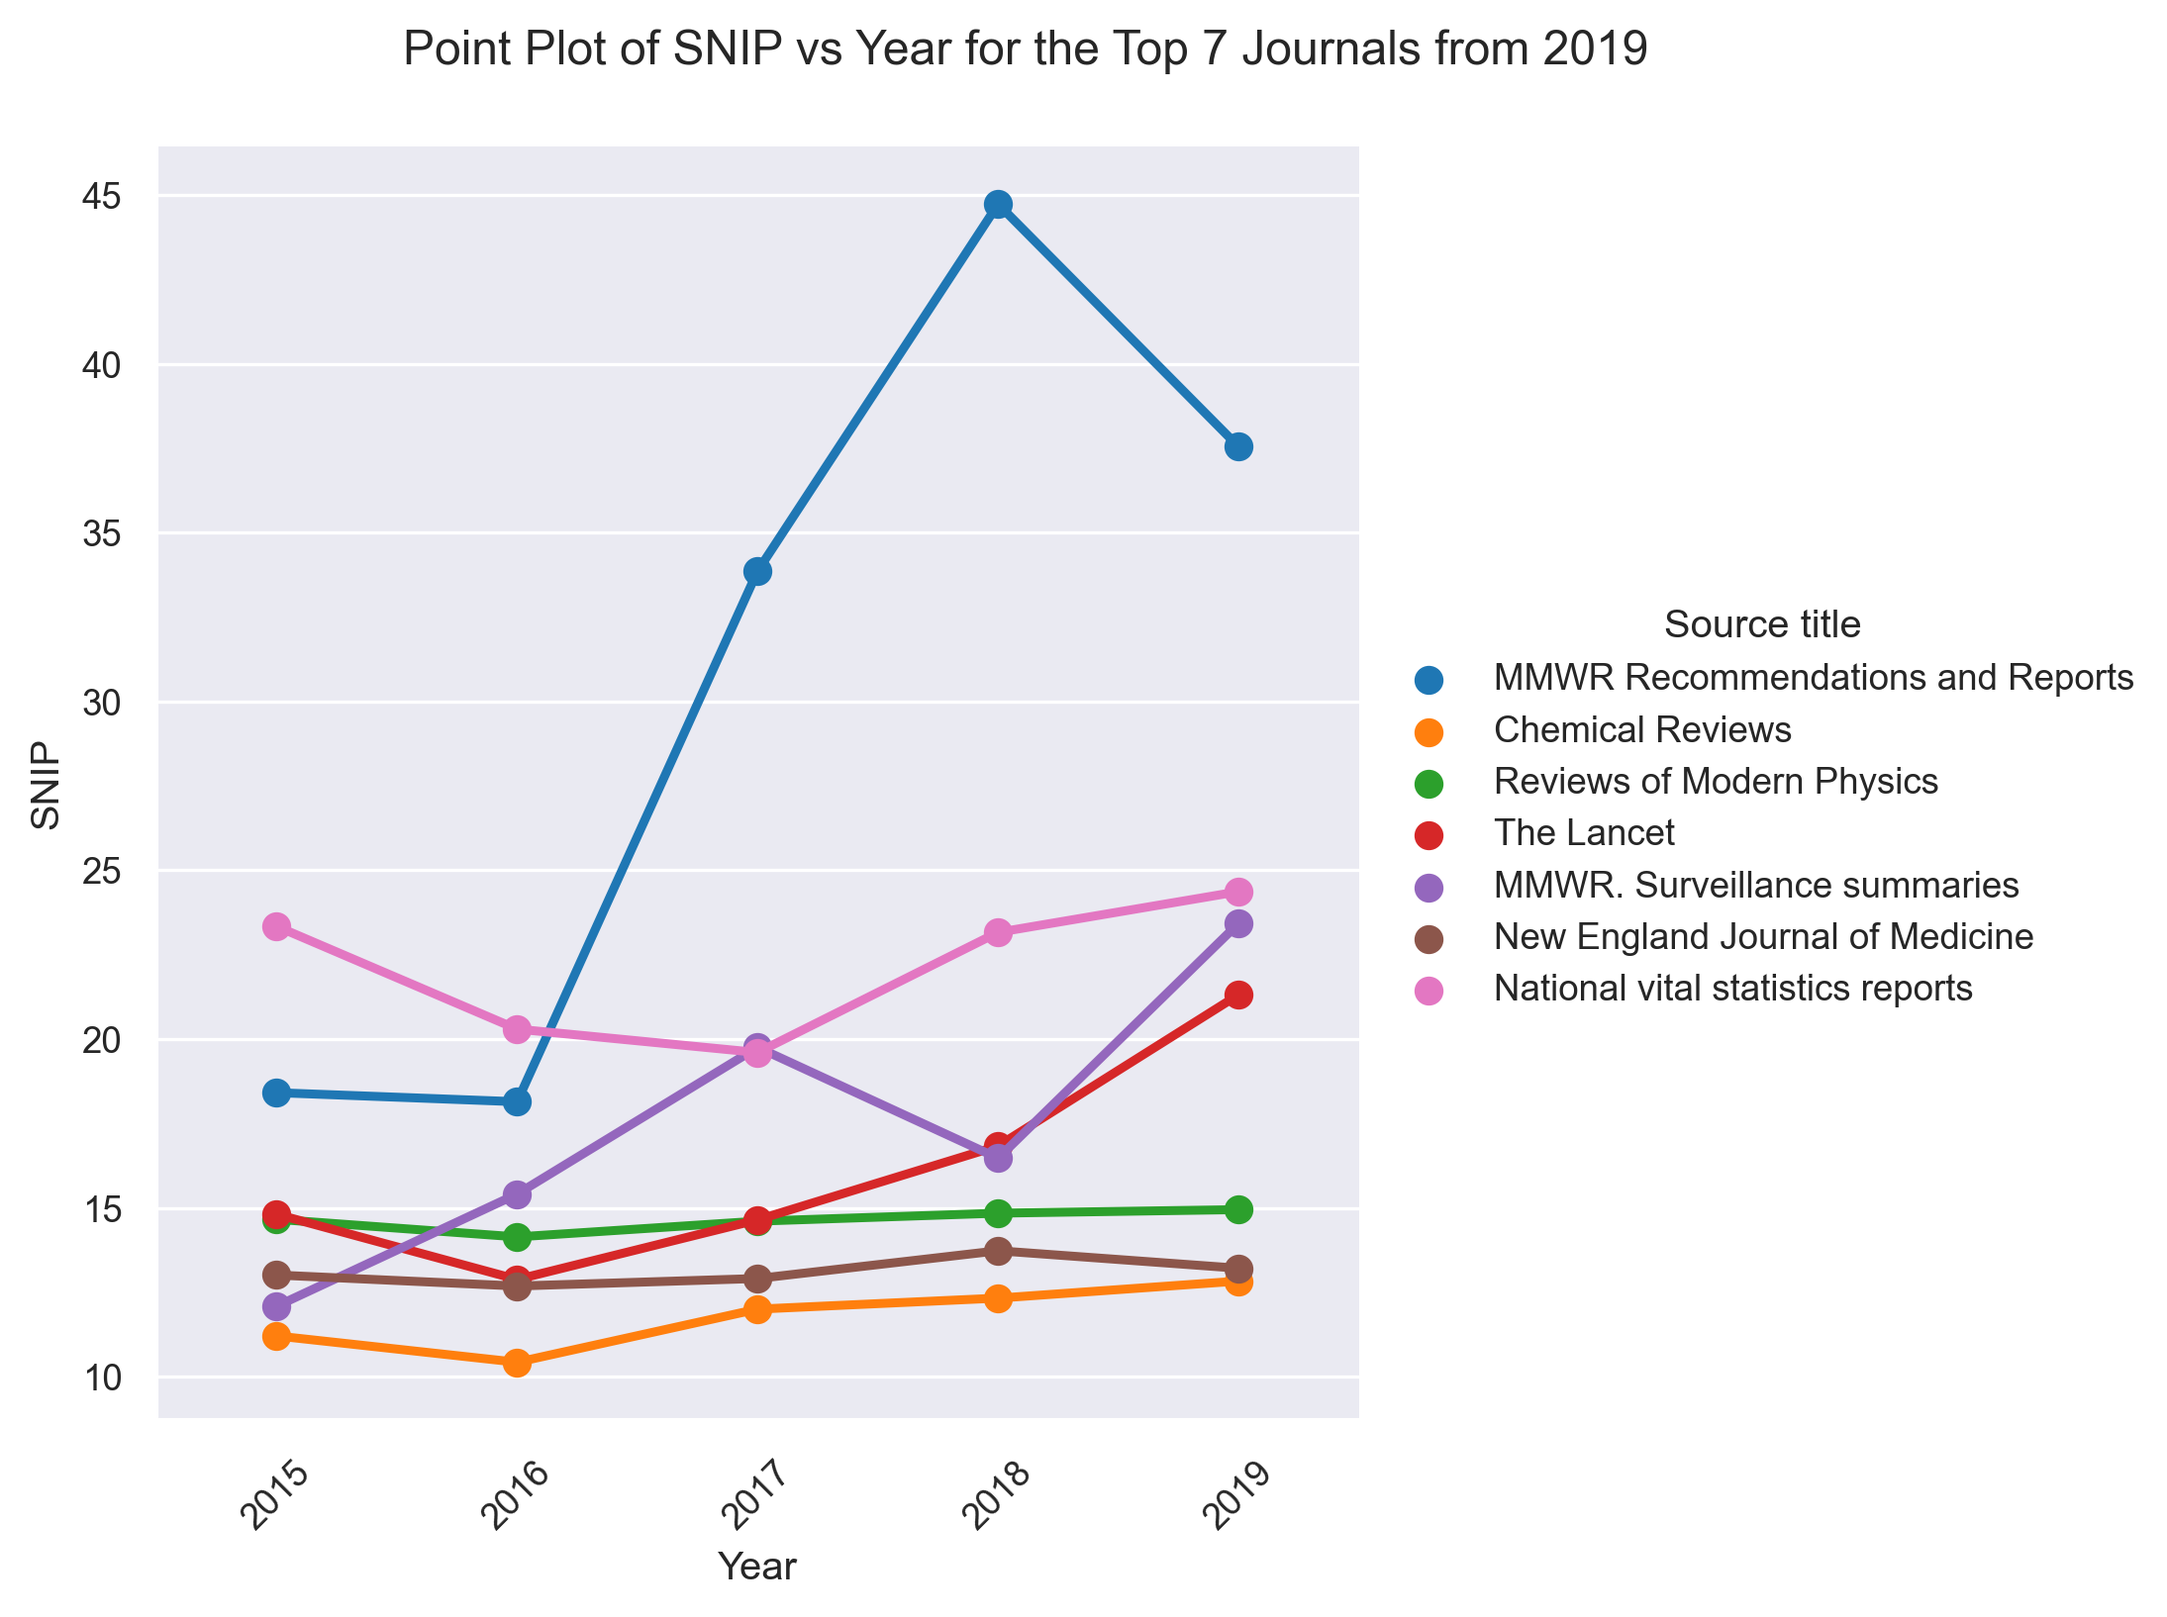
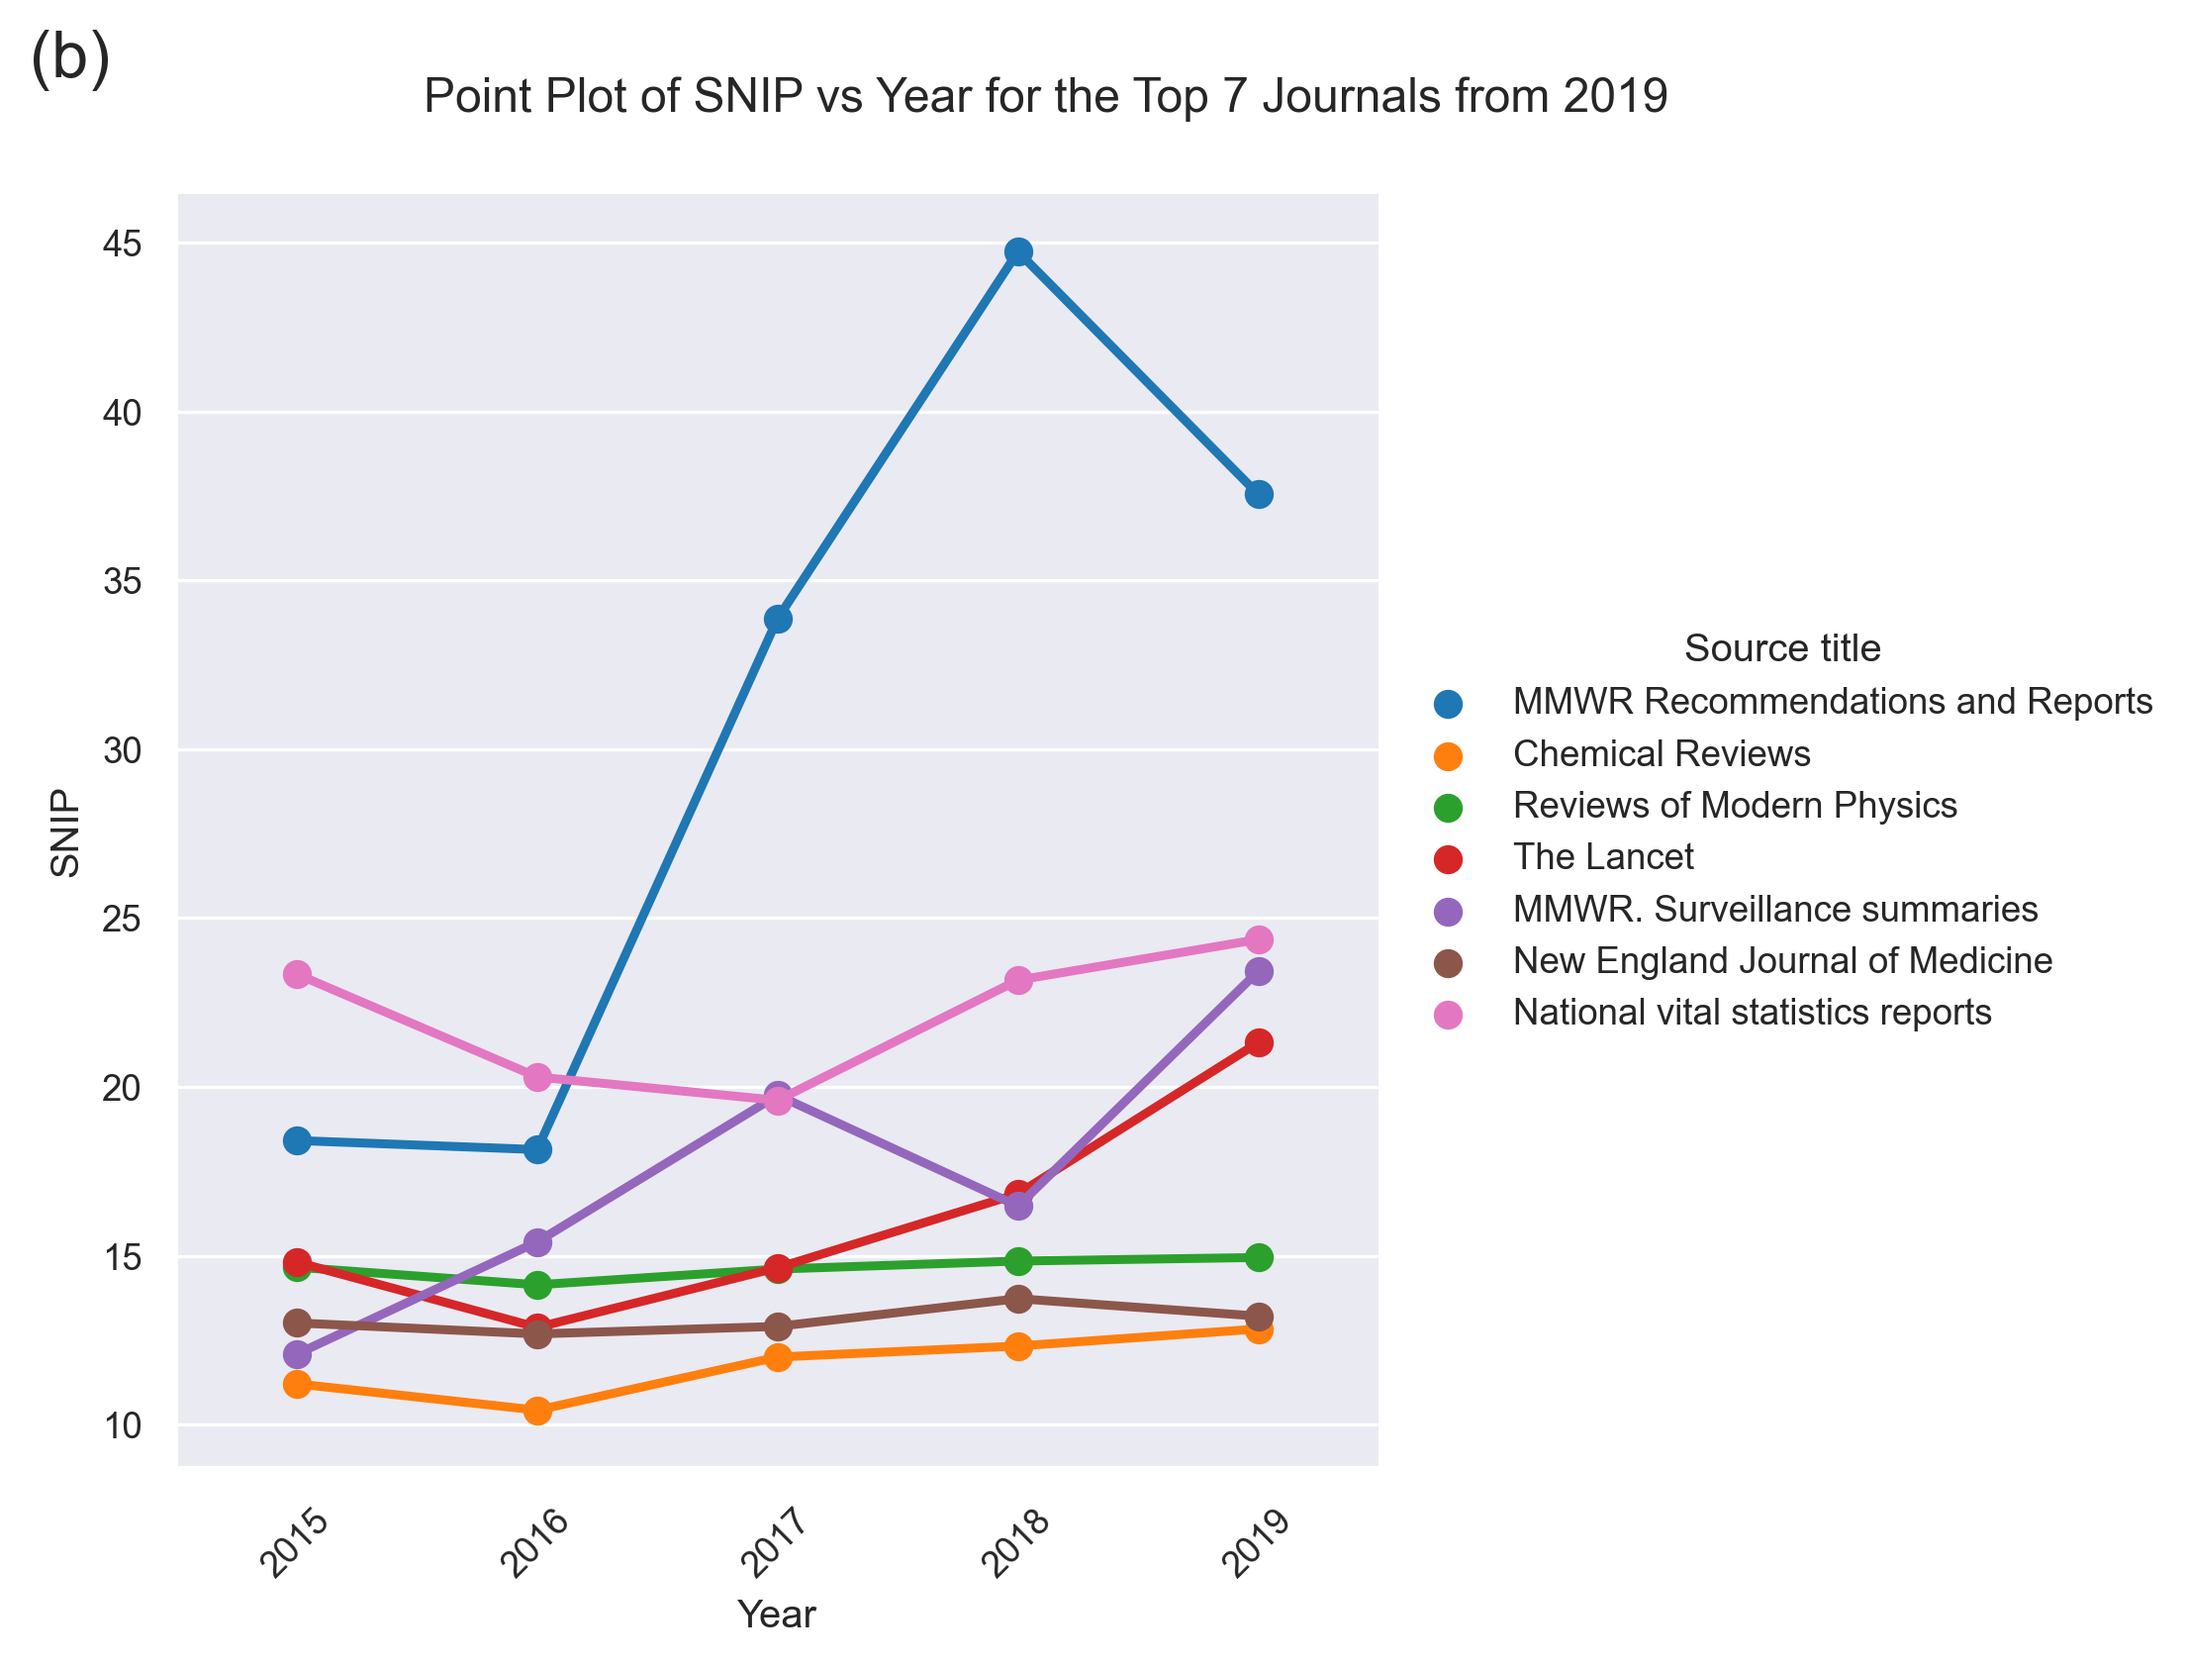
Fixed slide titles

diff --git a/Journal Impact Factor/Kaggle_metrics.py b/Journal Impact Factor/Kaggle_metrics.py
@@ -132,7 +132,8 @@ Top_8_CS_plot = sns.catplot(data = Top_CS_merge_melt, x = 'Year', y= 'CiteScore'
 Top_8_CS_plot.set_xticklabels(rotation = 45)
 Top_8_CS_plot.set_ylabels('CiteScore')
 Top_8_CS_plot.set_xlabels('Year')
-Top_8_CS_plot.fig.suptitle("Strip Plot of CiteScore vs Year for the Top 7 Journals from 2019", y = 1.05)
+Top_8_CS_plot.fig.suptitle("Point Plot of CiteScore vs Year for the Top 7 Journals from 2019", y = 1.05)
+Top_8_CS_plot.fig.text(0.05, 1.05,"(a)",fontdict=dict(size=16))
 Top_8_CS_plot.savefig('Images\\Top_8_CiteScore_2015-2019.png',dpi = 300)
 
 Top_7_SNIP_plot = sns.catplot(data = Top_SNIP_merge_melt, x = 'Year', y= 'SNIP', kind = 'point', hue = 'Source title')
@@ -141,6 +142,7 @@ Top_7_SNIP_plot.set_xticklabels(rotation = 45)
 Top_7_SNIP_plot.set_ylabels('SNIP')
 Top_7_SNIP_plot.set_xlabels('Year')
 Top_7_SNIP_plot.fig.suptitle("Point Plot of SNIP vs Year for the Top 7 Journals from 2019", y = 1.05)
+Top_7_SNIP_plot.fig.text(0.05, 1.05,"(b)",fontdict=dict(size=16))
 Top_7_SNIP_plot.savefig('Images\\Top_7_SNIP_2015-2019.png',dpi = 300)
 
 Top_7_SJR_plot = sns.catplot(data = Top_SJR_merge_melt, x = 'Year', y= 'SJR', kind = 'point', hue = 'Source title')
@@ -149,5 +151,5 @@ Top_7_SJR_plot.set_xticklabels(rotation = 45)
 Top_7_SJR_plot.set_ylabels('SJR')
 Top_7_SJR_plot.set_xlabels('Year')
 Top_7_SJR_plot.fig.suptitle("Point Plot of SJR vs Year for the Top 8 Journals from 2019", y = 1.05)
+Top_7_SJR_plot.fig.text(0.05, 1.05,"(c)",fontdict=dict(size=16))
 Top_7_SJR_plot.savefig('Images\\Top_8_SJR_2015-2019.png',dpi = 300)
-
